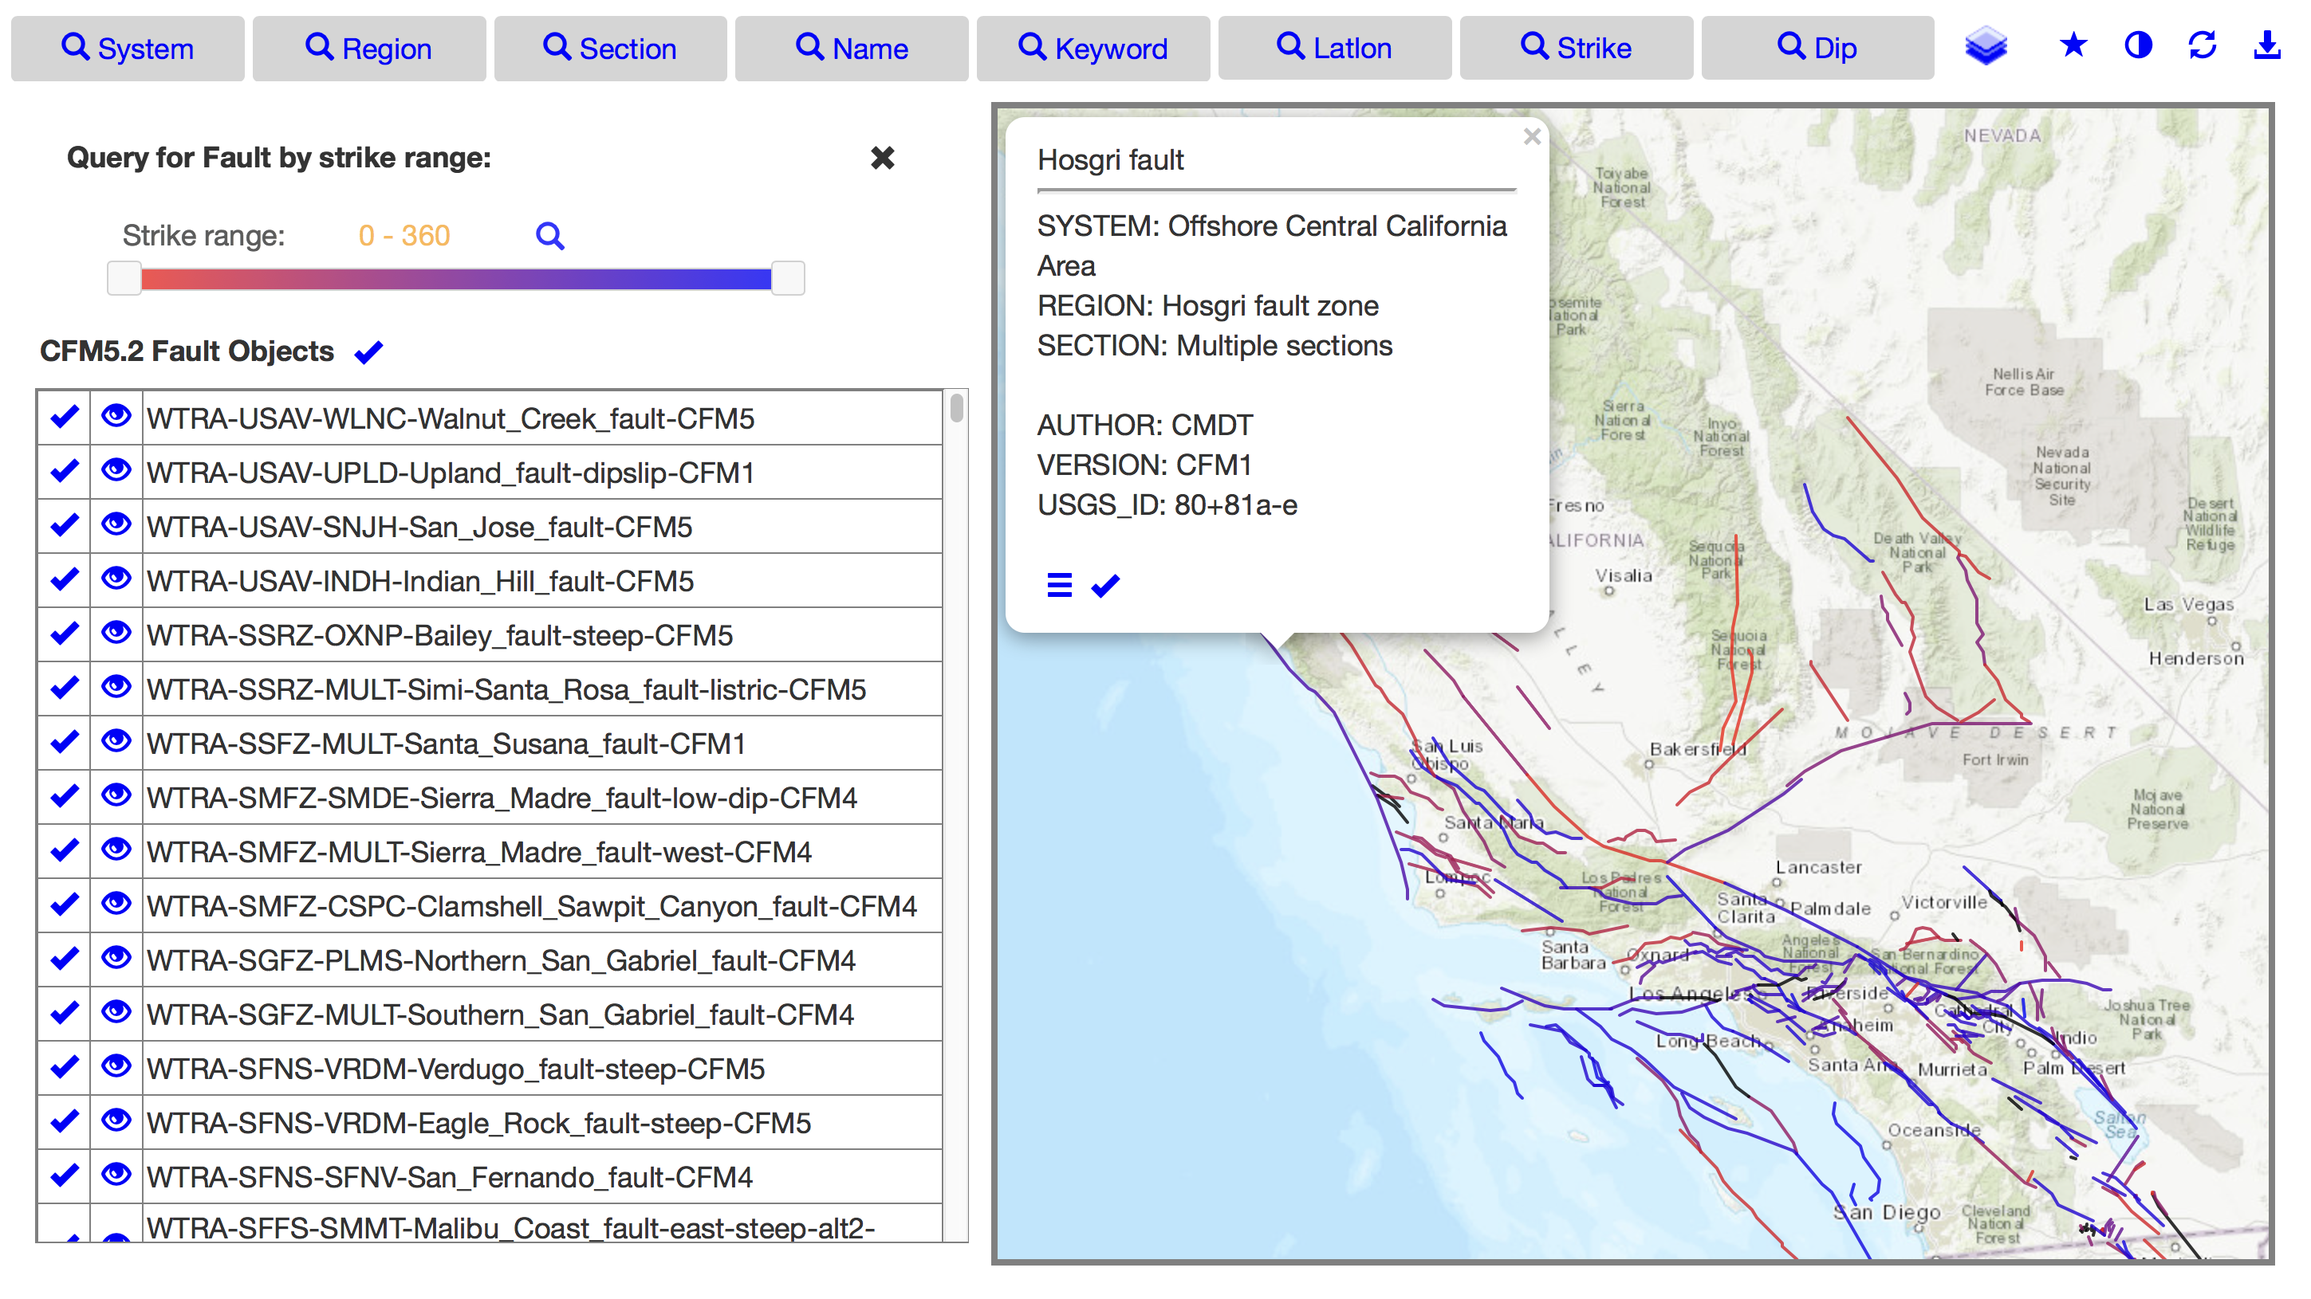
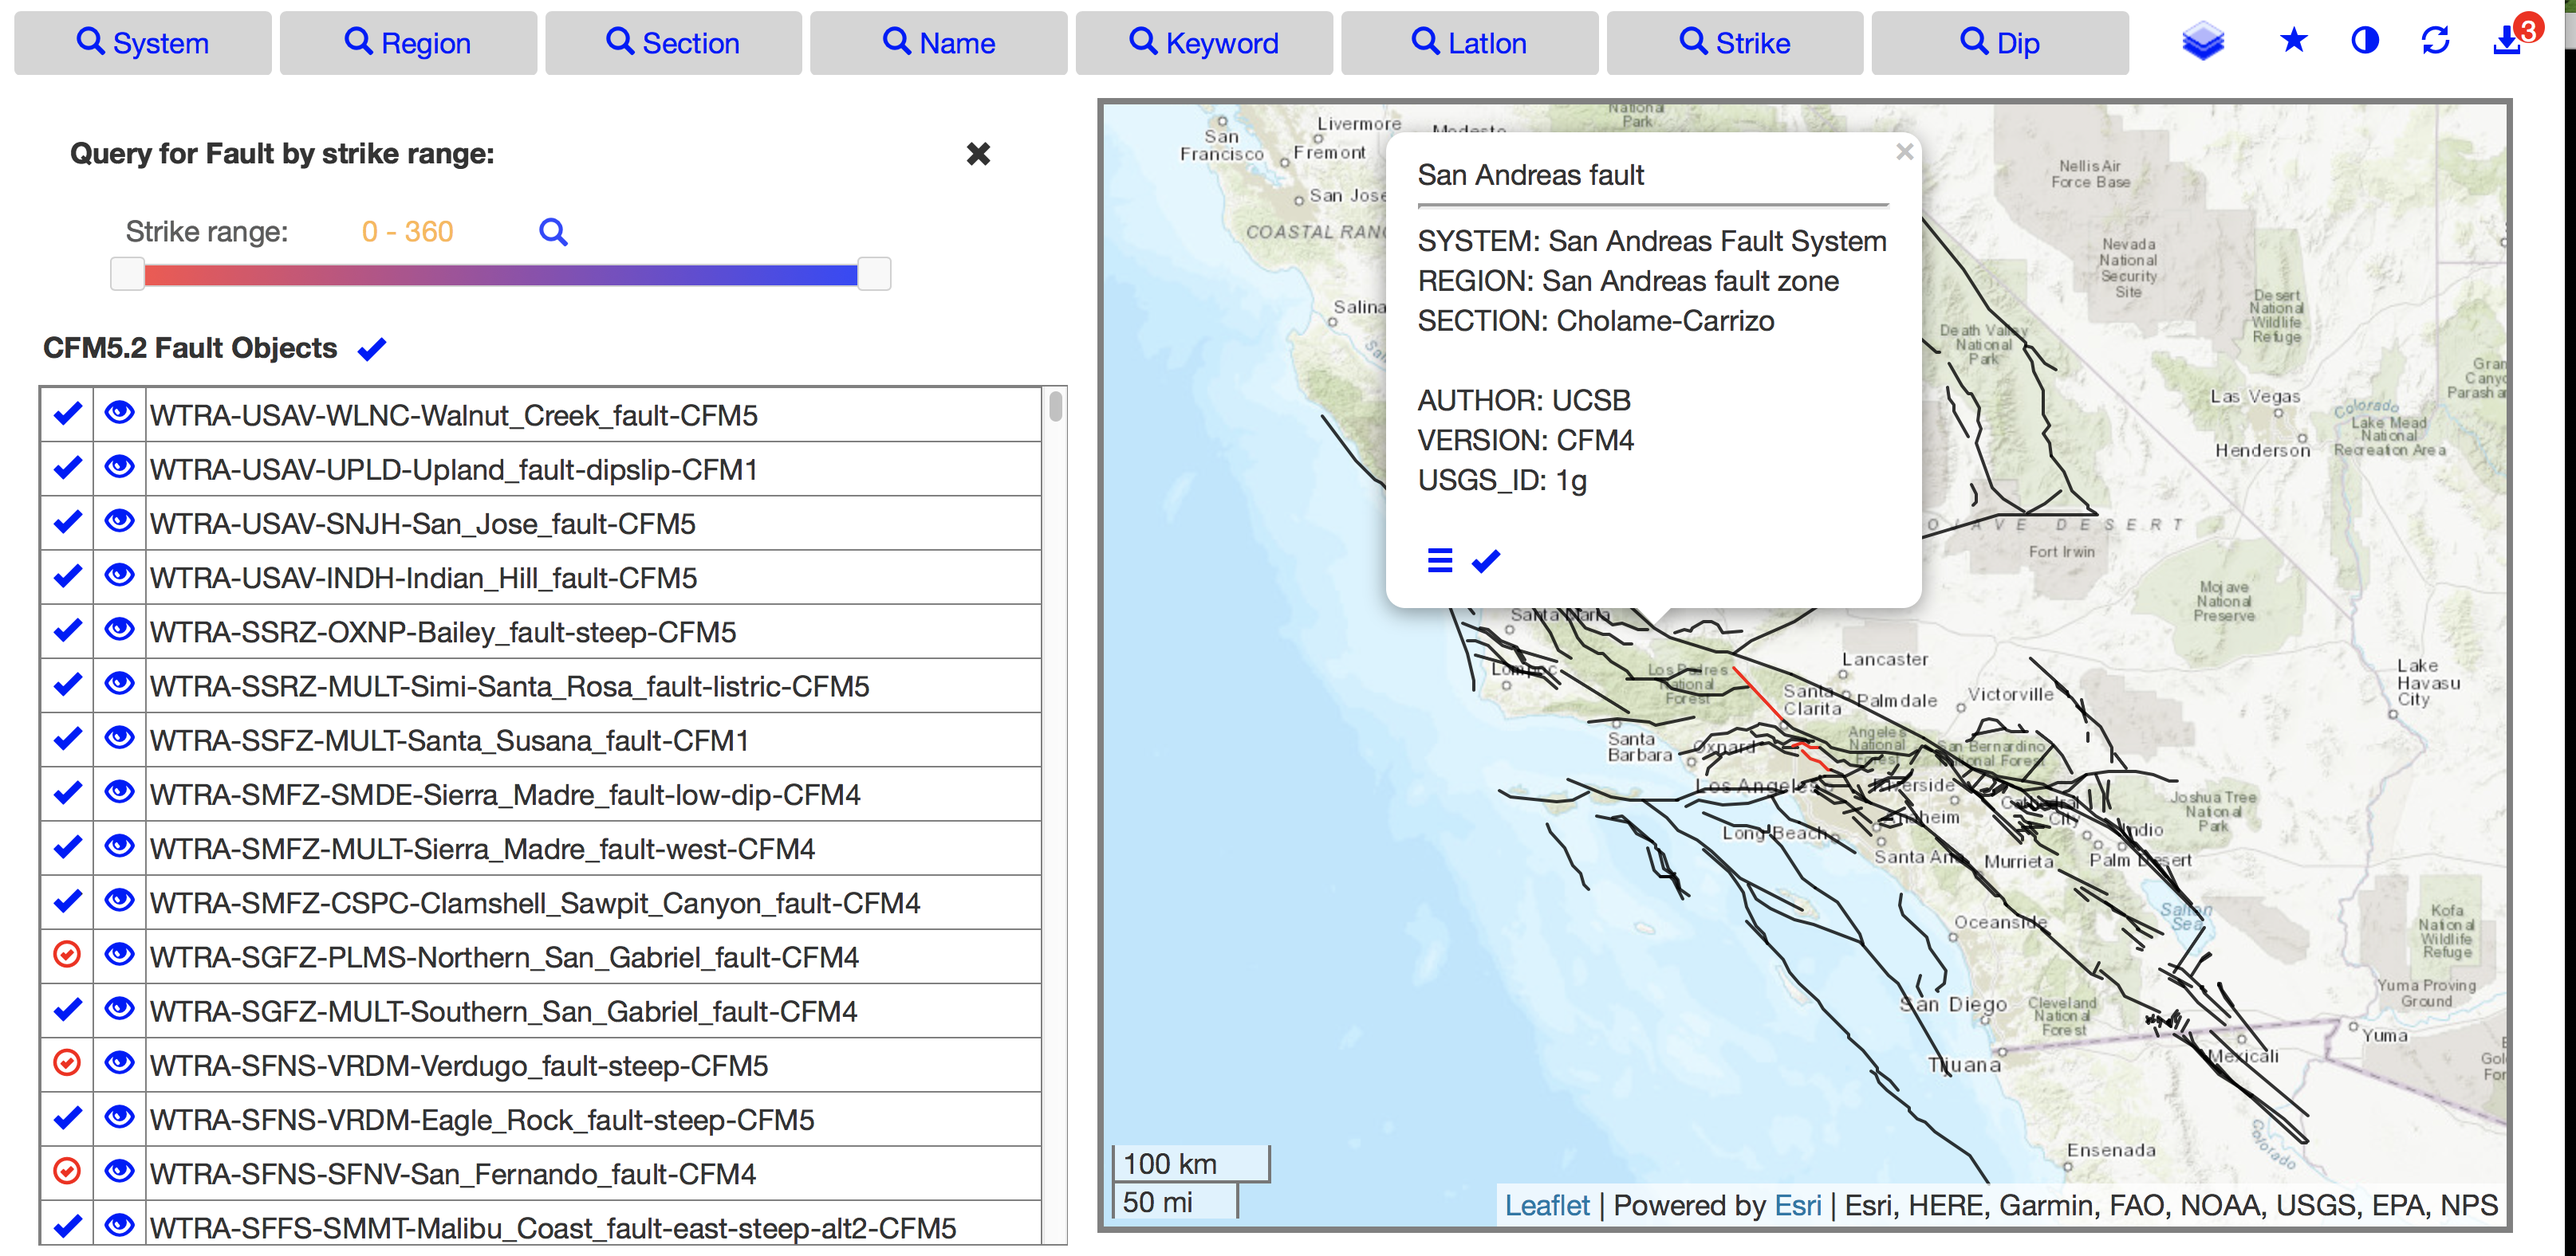
fix the disappearing attribution update the demo png and doc

diff --git a/web/css/cfm-ui.css b/web/css/cfm-ui.css
@@ -20,10 +20,6 @@ th {text-align: left;}
       color:red;
 }
 
-.leaflet-control-container {
-      display: none;
-}
-
 .leaflet-control-layers {
         background: white; 
         margin-left: 4px;

diff --git a/README.md b/README.md
@@ -51,7 +51,8 @@ are in doc/
     `run-as-httpd`, for installing and starting up the web service
 
 
-Data preprocessing instructions are in doc/ and the scripts are in schema/scripts 
+Data preprocessing instructions are in doc/run-preprocess-data, xlsx file is in 
+schema/CFM5_release_2017 and the scripts are in schema/scripts 
 
 
 ### Layout 
